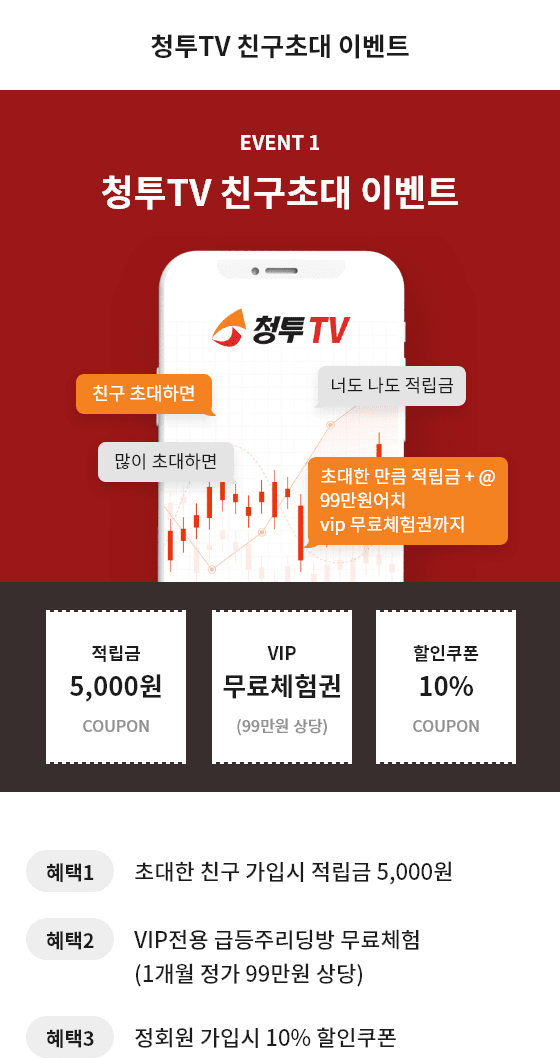
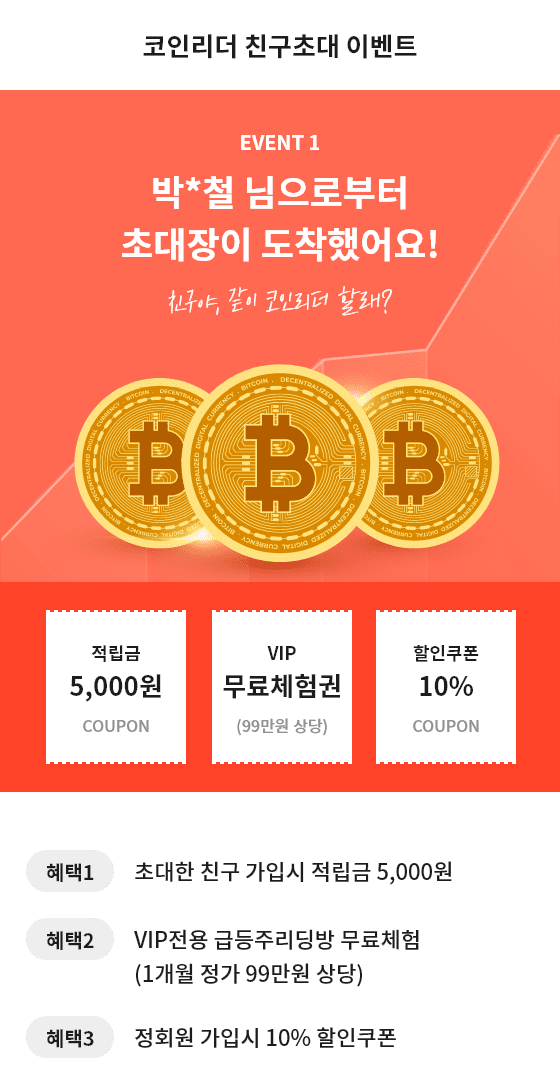
팝업 완료

diff --git a/popup01.html b/popup01.html
@@ -1,0 +1,40 @@
+<!DOCTYPE html>
+<html lang="ko">
+<head>
+    <meta charset="UTF-8">
+    <meta http-equiv="X-UA-Compatible" content="IE=edge">
+    <meta name="viewport" content="width=device-width, initial-scale=1.0 ,maximum-scale=1.0, user-scalable=0">
+    <!-- Iphone 모바일 확대 방지  maximum-scale=1.0, user-scalable=0-->
+    <title>팝업 - 대박이APP</title>
+    <link rel="stylesheet" href="css/import.css">
+    <script src="https://code.jquery.com/jquery-3.7.0.min.js" integrity="sha256-2Pmvv0kuTBOenSvLm6bvfBSSHrUJ+3A7x6P5Ebd07/g=" crossorigin="anonymous"></script>
+    <script src="js/common.js"></script>
+</head>
+<body>
+    <header>
+        <h1 class="textHidden">대박이APP</h1>
+        <nav>
+            <ul>
+                <li><a href="">홈</a></li>
+                <li><a href="">리딩방</a></li>
+                <li><a href="">투자정보</a></li>
+                <li><a href="">새소식</a></li>
+                <li><a href="">설정</a></li>
+            </ul>
+        </nav>
+    </header>
+    
+    <div class="popupBox">
+        <div>
+            <img src="images/popup01.png" alt="팝업 이미지">
+            <button style="--colorBG:#ee2222;">적립금 받기</button>
+            <div>
+                <input type="checkbox" id="notOpenToday">
+                <label for="notOpenToday">오늘 하루 열지않음</label>
+                <button>닫기</button>
+            </div>
+        </div>
+    </div>
+
+</body>
+</html>

diff --git a/popup02.html b/popup02.html
@@ -1,0 +1,40 @@
+<!DOCTYPE html>
+<html lang="ko">
+<head>
+    <meta charset="UTF-8">
+    <meta http-equiv="X-UA-Compatible" content="IE=edge">
+    <meta name="viewport" content="width=device-width, initial-scale=1.0 ,maximum-scale=1.0, user-scalable=0">
+    <!-- Iphone 모바일 확대 방지  maximum-scale=1.0, user-scalable=0-->
+    <title>팝업 - 대박이APP</title>
+    <link rel="stylesheet" href="css/import.css">
+    <script src="https://code.jquery.com/jquery-3.7.0.min.js" integrity="sha256-2Pmvv0kuTBOenSvLm6bvfBSSHrUJ+3A7x6P5Ebd07/g=" crossorigin="anonymous"></script>
+    <script src="js/common.js"></script>
+</head>
+<body>
+    <header>
+        <h1 class="textHidden">대박이APP</h1>
+        <nav>
+            <ul>
+                <li><a href="">홈</a></li>
+                <li><a href="">리딩방</a></li>
+                <li><a href="">투자정보</a></li>
+                <li><a href="">새소식</a></li>
+                <li><a href="">설정</a></li>
+            </ul>
+        </nav>
+    </header>
+    
+    <div class="popupBox">
+        <div>
+            <img src="images/popup02.png" alt="팝업 이미지">
+            <button style="--colorBG:#fe3f26;">적립금 받기</button>
+            <div>
+                <input type="checkbox" id="notOpenToday">
+                <label for="notOpenToday">오늘 하루 열지않음</label>
+                <button>닫기</button>
+            </div>
+        </div>
+    </div>
+
+</body>
+</html>

diff --git a/popup03.html b/popup03.html
@@ -1,0 +1,40 @@
+<!DOCTYPE html>
+<html lang="ko">
+<head>
+    <meta charset="UTF-8">
+    <meta http-equiv="X-UA-Compatible" content="IE=edge">
+    <meta name="viewport" content="width=device-width, initial-scale=1.0 ,maximum-scale=1.0, user-scalable=0">
+    <!-- Iphone 모바일 확대 방지  maximum-scale=1.0, user-scalable=0-->
+    <title>팝업 - 대박이APP</title>
+    <link rel="stylesheet" href="css/import.css">
+    <script src="https://code.jquery.com/jquery-3.7.0.min.js" integrity="sha256-2Pmvv0kuTBOenSvLm6bvfBSSHrUJ+3A7x6P5Ebd07/g=" crossorigin="anonymous"></script>
+    <script src="js/common.js"></script>
+</head>
+<body>
+    <header>
+        <h1 class="textHidden">대박이APP</h1>
+        <nav>
+            <ul>
+                <li><a href="">홈</a></li>
+                <li><a href="">리딩방</a></li>
+                <li><a href="">투자정보</a></li>
+                <li><a href="">새소식</a></li>
+                <li><a href="">설정</a></li>
+            </ul>
+        </nav>
+    </header>
+    
+    <div class="popupBox">
+        <div>
+            <img src="images/popup03.png" alt="팝업 이미지">
+            <button style="--colorBG:#b0000f;">적립금 받기</button>
+            <div>
+                <input type="checkbox" id="notOpenToday">
+                <label for="notOpenToday">오늘 하루 열지않음</label>
+                <button>닫기</button>
+            </div>
+        </div>
+    </div>
+
+</body>
+</html>

diff --git a/css/global.css b/css/global.css
@@ -65,6 +65,23 @@ mark{color: var(--colorPoint);}
     &.active{display: block;}
 } */
 
+/* 팝업 */
+.popupBox{position: fixed; inset: 0; z-index: 101; padding: 22.2222vw 11.1111vw; background-color: rgba(0, 0, 0, 0.5); box-sizing: border-box; overflow: auto;
+    & > div{background-color: white;
+        & img{width: 100%;}
+        & button{border-radius: 1.6666vw; vertical-align: middle;}
+        & > :is(button , a){display: block; font-size: 3.6111vw; font-weight: 500; color: white; width: calc(100% - 7.2222vw); height: 11.6666vw; background-color: var(--colorBG); margin: 6.1111vw auto;}
+        & div{display: flex; justify-content: space-between; align-items: center; padding: 1.6666vw 5vw; background-color: #f1f1f1;
+            & input[type="checkbox"]{display: none;
+                & + label{font-size: 3.6111vw; line-height: 4.7222vw; display: flex; align-items: center;
+                    &::before{content: ''; width: 4.4444vw; aspect-ratio: 1; background-color: black; margin-right: 1.6666vw; background-repeat: no-repeat; background-position: center; background-size: cover;}
+                }
+                &:checked + label::before{background-image: url('../images/on.png');}
+            }
+            & button{font-size: 3.6111vw; font-weight: 500; color: white; width: 20vw; height: 8.3333vw; background-color: black;}
+        }
+    }
+}
 
 /* 해더 */
 header{position: fixed; left: 0; bottom: 0; width: 100%; background-color: #f9f9f9; z-index: 100;

diff --git a/js/common.js b/js/common.js
@@ -5,8 +5,22 @@ $(document).ready(function(){
     // 텝
     $('.tabBtns').length && tab();
 
+    // 팝업
+    $('.popupBox').length && popup();
+
+    // 뉴스 상세페이지
     $('.newsDetailPage').length && newsDetailPage();
 })
+
+// 팝업
+function popup(){
+    $('.popupBox, .popupBox > div > div button').click(function(){
+        $('.popupBox').css('display','none');
+    })
+    $('.popupBox > div').click(function(e){
+        e.stopPropagation();
+    })
+}
 
 
 // 콤마
@@ -30,6 +44,7 @@ function tab(){
     })
 }
 
+// 뉴스 상세 페이지
 function newsDetailPage(){
     $('.copy_url').click(function(){
         const currentURL = window.location.href;
